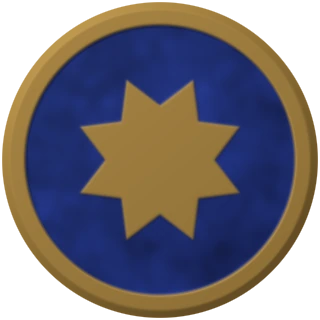
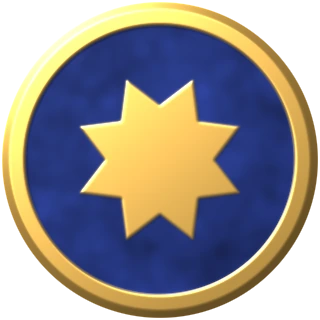
アルケルケ: ベルベルを廃止しヒストリカル(彫刻木盤)・モダン(ダマスク)・チョーク(石板)を追加、駒の明るさのバランス調整
Claude-Session: https://claude.ai/code/session_01EiWRAYzNyyFMGgYmiTnvUY

diff --git a/alquerque/index.html b/alquerque/index.html
@@ -1210,27 +1210,46 @@ body.hb-on .hb .controls.hb-menu{display:flex!important}
   html:is([data-rule=dimy],[data-rule=telo],[data-rule=alq]) body.rvb-on .side-in > #coachCard{display:none!important}
   html:is([data-rule=dimy],[data-rule=telo],[data-rule=alq]) body .app > .rvbox{grid-area:bx;height:auto;max-height:40vh}
 }
+/* ---- Alquerque: historical (carved wood), modern (damask cloth), chalk (slate) — tools/gen_rugs.py */
+html[data-bd=carved]{--wimg:url(img/rug-carved.webp?v=1);--edge:#3a2414;--wdl:#2b190c}
+html[data-bd=damask]{--wimg:url(img/rug-damask.webp?v=1);--edge:#26323f;--wdl:#eef2f6}
+html[data-bd=chalk]{--wimg:url(img/rug-chalk.webp?v=1);--edge:#1c1d1e;--wdl:#ecebe6}
+html:is([data-bd=carved],[data-bd=damask],[data-bd=chalk]) .frame{background:var(--wimg) 0 0 / 100% 100%;border-radius:calc(var(--cell) * .1);
+  box-shadow:0 calc(var(--cell) * .05) 0 var(--edge),0 40px 70px -26px rgba(0,0,0,.85)}
+html:is([data-bd=carved],[data-bd=damask],[data-bd=chalk]) .lines{filter:none}
+html[data-bd=carved] .lines .ln{stroke:#2b190c;stroke-width:.035;opacity:.9}
+html[data-bd=carved] .lines .pt{fill:#2b190c;opacity:.85;r:.06} html[data-bd=carved] .lines .pt.st{r:.08}
+html[data-bd=carved] .lines .num{fill:#2b190c;opacity:.75}
+html[data-bd=carved] .reserve{background:rgba(40,22,10,.35);box-shadow:inset 0 2px 5px rgba(0,0,0,.5),inset 0 -1px 0 rgba(255,230,190,.15)}
+html[data-bd=damask] .lines .ln{stroke:#eef2f6;stroke-width:.03;opacity:.92}
+html[data-bd=damask] .lines .pt{fill:#eef2f6;opacity:.95;r:.06} html[data-bd=damask] .lines .pt.st{r:.08}
+html[data-bd=damask] .lines .num{fill:#eef2f6;opacity:.7}
+html[data-bd=damask] .reserve{background:rgba(10,16,24,.35);box-shadow:inset 0 2px 5px rgba(0,0,0,.5)}
+html[data-bd=chalk] .lines{filter:url(#chalkF)}
+html[data-bd=chalk] .lines .ln{stroke:#ecebe6;stroke-width:.05;opacity:.88;stroke-linecap:round}
+html[data-bd=chalk] .lines .pt{fill:#ecebe6;opacity:.85;r:.07} html[data-bd=chalk] .lines .pt.st{r:.09}
+html[data-bd=chalk] .lines .num{fill:#ecebe6;opacity:.7}
+html[data-bd=chalk] .reserve{background:rgba(0,0,0,.3);box-shadow:inset 0 2px 5px rgba(0,0,0,.6)}
 /* ---- Alquerque: rug boards (tools/gen_rugs.py) with cream / gold lines; brass + lapis coins and felt balls */
-html:is([data-bd=medallion],[data-bd=berber],[data-bd=kilim],[data-bd=patch]){--edge:#2a1414;--wdl:#f6e6c0}
-html[data-bd=berber] .lines .num{fill:#2a1414;opacity:.75}
-html[data-bd=medallion]{--wimg:url(img/rug-medallion.webp?v=7)} html[data-bd=berber]{--wimg:url(img/rug-berber.webp?v=6)}
+html:is([data-bd=medallion],[data-bd=kilim],[data-bd=patch]){--edge:#2a1414;--wdl:#f6e6c0}
+html[data-bd=medallion]{--wimg:url(img/rug-medallion.webp?v=7)}
 html[data-bd=kilim]{--wimg:url(img/rug-kilim.webp?v=6)} html[data-bd=patch]{--wimg:url(img/rug-patch.webp?v=6)}
-html:is([data-bd=medallion],[data-bd=berber],[data-bd=kilim],[data-bd=patch]) .frame{background:var(--wimg) 0 0 / 100% 100%;border-radius:calc(var(--cell) * .14);
+html:is([data-bd=medallion],[data-bd=kilim],[data-bd=patch]) .frame{background:var(--wimg) 0 0 / 100% 100%;border-radius:calc(var(--cell) * .14);
   box-shadow:0 calc(var(--cell) * .05) 0 #3a1c18,0 40px 70px -26px rgba(0,0,0,.85),inset 0 0 calc(var(--cell) * .3) rgba(0,0,0,.25)}
-html:is([data-bd=medallion],[data-bd=berber],[data-bd=kilim],[data-bd=patch]) .lines{filter:drop-shadow(0 0 calc(var(--cell) * .025) rgba(0,0,0,.65))}
-html:is([data-bd=medallion],[data-bd=berber],[data-bd=kilim],[data-bd=patch]) .lines .ln{stroke:#f6e6c0;stroke-width:.045;opacity:.95}
-html:is([data-bd=medallion],[data-bd=berber],[data-bd=kilim],[data-bd=patch]) .lines .pt{fill:#e9c46a;opacity:1;r:.1}
-html:is([data-bd=medallion],[data-bd=berber],[data-bd=kilim],[data-bd=patch]) .lines .pt.st{r:.13}
-html:is([data-bd=medallion],[data-bd=berber],[data-bd=kilim],[data-bd=patch]) .lines .num{fill:#f6e6c0;opacity:.9}
-html:is([data-bd=medallion],[data-bd=berber],[data-bd=kilim],[data-bd=patch]) .reserve{background:rgba(20,6,6,.45);box-shadow:inset 0 2px 5px rgba(0,0,0,.6),inset 0 -1px 0 rgba(255,255,255,.12)}
+html:is([data-bd=medallion],[data-bd=kilim],[data-bd=patch]) .lines{filter:drop-shadow(0 0 calc(var(--cell) * .025) rgba(0,0,0,.65))}
+html:is([data-bd=medallion],[data-bd=kilim],[data-bd=patch]) .lines .ln{stroke:#f6e6c0;stroke-width:.045;opacity:.95}
+html:is([data-bd=medallion],[data-bd=kilim],[data-bd=patch]) .lines .pt{fill:#e9c46a;opacity:1;r:.1}
+html:is([data-bd=medallion],[data-bd=kilim],[data-bd=patch]) .lines .pt.st{r:.13}
+html:is([data-bd=medallion],[data-bd=kilim],[data-bd=patch]) .lines .num{fill:#f6e6c0;opacity:.9}
+html:is([data-bd=medallion],[data-bd=kilim],[data-bd=patch]) .reserve{background:rgba(20,6,6,.45);box-shadow:inset 0 2px 5px rgba(0,0,0,.6),inset 0 -1px 0 rgba(255,255,255,.12)}
 html[data-pcs=brass]{--w1:#fff0b8;--w2:#d9ad4a;--w4:#8a6420;--b1:#4a6cc4;--b2:#1d3478;--b4:#0b1636}
 html[data-pcs=felt]{--w1:#f6eedc;--w2:#e6dcc4;--w4:#a89a80;--b1:#3a5cae;--b2:#1e3a84;--b4:#0e1c48}
 html:is([data-pcs=brass],[data-pcs=felt]) :is(.pc,.rv)::before, html:is([data-pcs=brass],[data-pcs=felt]) :is(.pc,.rv)::after{display:none}
 /* rendered faces (tools/gen_pieces.py): brass coin / lapis in a gold bezel; glazed ceramic (ivory painted cobalt / cobalt painted white) */
-html[data-pcs=brass] :is(.pc,.rv).p1{background:url(img/pc-brass-1.webp?v=4) 50% 50% / 100% 100% no-repeat}
-html[data-pcs=brass] :is(.pc,.rv).p2{background:url(img/pc-brass-2.webp?v=4) 50% 50% / 100% 100% no-repeat}
-html[data-pcs=felt] :is(.pc,.rv).p1{background:url(img/pc-felt-1.webp?v=4) 50% 50% / 100% 100% no-repeat}
-html[data-pcs=felt] :is(.pc,.rv).p2{background:url(img/pc-felt-2.webp?v=4) 50% 50% / 100% 100% no-repeat}
+html[data-pcs=brass] :is(.pc,.rv).p1{background:url(img/pc-brass-1.webp?v=5) 50% 50% / 100% 100% no-repeat}
+html[data-pcs=brass] :is(.pc,.rv).p2{background:url(img/pc-brass-2.webp?v=5) 50% 50% / 100% 100% no-repeat}
+html[data-pcs=felt] :is(.pc,.rv).p1{background:url(img/pc-felt-1.webp?v=5) 50% 50% / 100% 100% no-repeat}
+html[data-pcs=felt] :is(.pc,.rv).p2{background:url(img/pc-felt-2.webp?v=5) 50% 50% / 100% 100% no-repeat}
 html[data-pcs=brass] .pc.p1{box-shadow:0 calc(var(--cell) * .035) 0 #6a4614,0 calc(var(--cell) * .05) 0 #3e280a,0 calc(var(--cell) * .1) calc(var(--cell) * .1) rgba(0,0,0,.55)}
 html[data-pcs=brass] .pc.p2{box-shadow:0 calc(var(--cell) * .035) 0 #8a6420,0 calc(var(--cell) * .05) 0 #4a3010,0 calc(var(--cell) * .1) calc(var(--cell) * .1) rgba(0,0,0,.55)}
 html[data-pcs=felt] .pc.p1{box-shadow:0 calc(var(--cell) * .04) 0 #a0846a,0 calc(var(--cell) * .055) 0 #6a4a34,0 calc(var(--cell) * .1) calc(var(--cell) * .1) rgba(0,0,0,.5)}
@@ -1298,6 +1317,7 @@ html[data-pcs=felt] .pdisc.p1{background:#e6dcc4} html[data-pcs=felt] .pdisc.p2{
 </style>
 </head>
 <body>
+<svg width="0" height="0" style="position:absolute" aria-hidden="true"><filter id="chalkF" x="-5%" y="-5%" width="110%" height="110%"><feTurbulence type="fractalNoise" baseFrequency="1.6" numOctaves="2" seed="3"/><feColorMatrix values="0 0 0 0 0  0 0 0 0 0  0 0 0 0 0  0 0 0 -1.6 1.25"/><feComposite in="SourceGraphic" operator="in"/></filter></svg>
 <div class="app">
   <div class="board-area">
     <div class="frame" id="frame">
@@ -1577,9 +1597,9 @@ html[data-pcs=felt] .pdisc.p1{background:#e6dcc4} html[data-pcs=felt] .pdisc.p2{
 // Alquerque runs on the Fanorona scripts (fanorona/app.js, engine.js, online*.js) with this game's settings
 window.GAME = { id: 'alquerque', name: 'Alquerque', base: 'alq', rules: ['alq'], store: 'aicoding-alquerque', img: '../images/atlas/alquerque.webp',
   engine: '../fanorona/engine.js?v=fb2', bd: 'medallion', pcs: 'brass',
-  bds: ['medallion', 'berber', 'kilim', 'patch', 'abstract', 'dark'], pcss: ['brass', 'felt', 'flat', 'mono'],
-  bdImg: { medallion: 'img/rug-medallion.webp?v=7', berber: 'img/rug-berber.webp?v=6', kilim: 'img/rug-kilim.webp?v=6', patch: 'img/rug-patch.webp?v=6' },
-  bdPal: { medallion: ['#962020', '#5a1c40', '#e2b254'], berber: ['#ee7616', '#b01e6e', '#1a1416'], kilim: ['#cc282e', '#ec6e22', '#f4e8d2'], patch: ['#7a3a5a', '#2a608c', '#f4ead6'] },
+  bds: ['medallion', 'kilim', 'patch', 'carved', 'damask', 'chalk', 'abstract', 'dark'], pcss: ['brass', 'felt', 'flat', 'mono'],
+  bdImg: { carved: 'img/rug-carved.webp?v=1', damask: 'img/rug-damask.webp?v=1', chalk: 'img/rug-chalk.webp?v=1', medallion: 'img/rug-medallion.webp?v=7', kilim: 'img/rug-kilim.webp?v=6', patch: 'img/rug-patch.webp?v=6' },
+  bdPal: { carved: ['#96704a', '#5e4026', '#2b190c'], damask: ['#3a4c60', '#26323f', '#eef2f6'], chalk: ['#2e3032', '#1c1d1e', '#ecebe6'], medallion: ['#962020', '#5a1c40', '#e2b254'], kilim: ['#cc282e', '#ec6e22', '#f4e8d2'], patch: ['#7a3a5a', '#2a608c', '#f4ead6'] },
   pcPal: { brass: [['#fff0b8', '#d9ad4a', '#8a6420'], ['#3d5fb8', '#1d3478', '#0b1636']], felt: [['#f6eedc', '#e6dcc4', '#a89a80'], ['#3a5cae', '#1e3a84', '#0e1c48']] } };
 window.OL_VARIANTS = ['alq']; window.OL_DB_PREFIX = 'alq/';
 </script>
@@ -1617,7 +1637,7 @@ window.OL_VARIANTS = ['alq']; window.OL_DB_PREFIX = 'alq/';
     };
     fit(); addEventListener('resize', fit);
     try { history.replaceState(null, '', location.pathname); } catch (e) {}   // (the iframe took the room / record links along)
-  } else document.write('<script src="../fanorona/i18n.js?v=fb3"><\/script><script src="i18n-alq.js?v=1x"><\/script><script src="../fanorona/i18n-online.js?v=stale1"><\/script><script src="../shared/pzbook.js?v=4"><\/script><script src="../shared/placement.js?v=1"><\/script><script src="../shared/rulesoffer.js?v=9"><\/script><script src="../shared/headerbar.js?v=29"><\/script><script src="../shared/flipbtn.js?v=1"><\/script><script src="../shared/cardbar.js?v=5"><\/script><script src="../shared/watchpause.js?v=2"><\/script><script src="../shared/tick.js?v=1"><\/script><script src="../shared/ruletour.js?v=28"><\/script><script src="../fanorona/engine.js?v=fb2"><\/script><script src="firebase-config.js?v=1"><\/script><script src="../shared/onlinesec.js?v=2"><\/script><script src="../fanorona/online.js?v=fb2"><\/script><script src="../shared/resign.js?v=1"><\/script><script src="../fanorona/rvbox.js?v=fb2"><\/script><script src="../shared/coachkit.js?v=14"><\/script><script src="../shared/record.js?v=8"><\/script><script src="../shared/export.js?v=6"><\/script><script src="../fanorona/app.js?v=fb5"><\/script><script src="../fanorona/online-ui.js?v=fb2"><\/script><script src="../fanorona/landtabs.js?v=fb2"><\/script><script src="../shared/pickdrop.js?v=6"><\/script><script src="../shared/ngtabs.js?v=15"><\/script><script src="../shared/resumeng.js?v=1"><\/script>');
+  } else document.write('<script src="../fanorona/i18n.js?v=fb3"><\/script><script src="i18n-alq.js?v=2"><\/script><script src="../fanorona/i18n-online.js?v=stale1"><\/script><script src="../shared/pzbook.js?v=4"><\/script><script src="../shared/placement.js?v=1"><\/script><script src="../shared/rulesoffer.js?v=9"><\/script><script src="../shared/headerbar.js?v=29"><\/script><script src="../shared/flipbtn.js?v=1"><\/script><script src="../shared/cardbar.js?v=5"><\/script><script src="../shared/watchpause.js?v=2"><\/script><script src="../shared/tick.js?v=1"><\/script><script src="../shared/ruletour.js?v=28"><\/script><script src="../fanorona/engine.js?v=fb2"><\/script><script src="firebase-config.js?v=1"><\/script><script src="../shared/onlinesec.js?v=2"><\/script><script src="../fanorona/online.js?v=fb2"><\/script><script src="../shared/resign.js?v=1"><\/script><script src="../fanorona/rvbox.js?v=fb2"><\/script><script src="../shared/coachkit.js?v=14"><\/script><script src="../shared/record.js?v=8"><\/script><script src="../shared/export.js?v=6"><\/script><script src="../fanorona/app.js?v=fb5"><\/script><script src="../fanorona/online-ui.js?v=fb2"><\/script><script src="../fanorona/landtabs.js?v=fb2"><\/script><script src="../shared/pickdrop.js?v=6"><\/script><script src="../shared/ngtabs.js?v=15"><\/script><script src="../shared/resumeng.js?v=1"><\/script>');
 })();
 </script>
 <!-- World Board Game Atlas: shared account sync -->

diff --git a/alquerque/i18n-alq.js b/alquerque/i18n-alq.js
@@ -14,7 +14,7 @@ ja: {
   'tr.achain.t': '続けて取る', 'tr.achain.b': '跳んだ先でさらに取れるなら、<b>同じ手番で続けて跳ばなければなりません</b>。', 'tr.achain.task': 'a1の駒で2枚続けて取りましょう。', 'tr.achain.ok': '連続取り！ 一気に2枚です。', 'tr.achain.ng': '取ったあと、続けて次の駒も取りましょう。',
   'tr.awin.t': '勝ち方', 'tr.awin.b': '相手の駒を<b>すべて取る</b>と勝ち。\n相手が動けなくなっても勝ちです。', 'tr.awin.task': '最後の相手の駒を取って勝ちましょう。', 'tr.awin.ok': '勝ちました！', 'tr.awin.ng': '相手の駒を取りましょう。',
   'tr.adraw.t': '引き分け', 'tr.adraw.b': '<b>同じ局面が3回</b>現れるか、取りのない手が<b>80手続く</b>と引き分けです。\n奥まで進んだ駒は横にしか動けません。',
-  'bd.medallion': 'メダリオン絨毯', 'bd.berber': 'ベルベル絨毯', 'bd.kilim': 'キリム', 'bd.patch': 'パッチワーク', 'pcs.brass': '真鍮と瑠璃', 'pcs.felt': '施釉陶器',
+  'bd.carved': 'ヒストリカル（彫刻木盤）', 'bd.damask': 'モダン（ダマスク布）', 'bd.chalk': 'チョーク（石板）', 'bd.medallion': 'メダリオン絨毯', 'bd.berber': 'ベルベル絨毯', 'bd.kilim': 'キリム', 'bd.patch': 'パッチワーク', 'pcs.brass': '真鍮と瑠璃', 'pcs.felt': '施釉陶器',
   'btn.lesson.title': 'レッスン（準備中）',
 },
 en: {
@@ -31,14 +31,14 @@ en: {
   'tr.achain.t': 'Jumping on', 'tr.achain.b': 'If the piece can capture again where it lands, it <b>must go on jumping</b> in the same turn.', 'tr.achain.task': 'Capture two pieces in a row with a1.', 'tr.achain.ok': 'A double capture!', 'tr.achain.ng': 'After the first capture, go on and take the next one.',
   'tr.awin.t': 'How to win', 'tr.awin.b': '<b>Capture all</b> the opponent\'s pieces to win.\nLeaving them unable to move also wins.', 'tr.awin.task': 'Capture the opponent\'s last piece.', 'tr.awin.ok': 'You won!', 'tr.awin.ng': 'Capture the opponent\'s piece.',
   'tr.adraw.t': 'Draws', 'tr.adraw.b': 'The game is drawn when <b>the same position appears 3 times</b> or <b>80 moves in a row</b> capture nothing.\nA piece on the far row can only move sideways.',
-  'bd.medallion': 'Medallion carpet', 'bd.berber': 'Berber rug', 'bd.kilim': 'Kilim', 'bd.patch': 'Patchwork', 'pcs.brass': 'Brass and lapis', 'pcs.felt': 'Glazed ceramic',
+  'bd.carved': 'Historical (carved wood)', 'bd.damask': 'Modern (damask cloth)', 'bd.chalk': 'Chalk (slate)', 'bd.medallion': 'Medallion carpet', 'bd.berber': 'Berber rug', 'bd.kilim': 'Kilim', 'bd.patch': 'Patchwork', 'pcs.brass': 'Brass and lapis', 'pcs.felt': 'Glazed ceramic',
 },
-zh: { 'meta.title': '阿尔凯尔凯 — 世界桌游大全', 'title': '阿尔凯尔凯', 'rule.alq': '阿尔凯尔凯（5×5）', 'intro.t': '阿尔凯尔凯是什么游戏？', 'intro.origin': '阿拉伯世界 → 西班牙', 'bd.medallion': '圆章地毯', 'bd.berber': '柏柏尔地毯', 'bd.kilim': '基里姆', 'bd.patch': '拼布', 'pcs.brass': '黄铜与青金石', 'pcs.felt': '釉面陶瓷' },
-ko: { 'meta.title': '알케르케 — 세계 보드게임 대전', 'title': '알케르케', 'rule.alq': '알케르케 (5×5)', 'intro.t': '알케르케는 어떤 게임?', 'intro.origin': '아랍 세계 → 스페인', 'bd.medallion': '메달리온 카펫', 'bd.berber': '베르베르 러그', 'bd.kilim': '킬림', 'bd.patch': '패치워크', 'pcs.brass': '황동과 청금석', 'pcs.felt': '유약 도자기' },
-es: { 'meta.title': 'Alquerque — Atlas de juegos de mesa', 'title': 'Alquerque', 'rule.alq': 'Alquerque (5×5)', 'intro.t': '¿Qué es el alquerque?', 'intro.origin': 'Mundo árabe → España', 'bd.medallion': 'Alfombra de medallón', 'bd.berber': 'Alfombra bereber', 'bd.kilim': 'Kilim', 'bd.patch': 'Patchwork', 'pcs.brass': 'Latón y lapislázuli', 'pcs.felt': 'Cerámica vidriada' },
-fr: { 'meta.title': 'Alquerque — Atlas des jeux de société', 'title': 'Alquerque', 'rule.alq': 'Alquerque (5×5)', 'intro.t': 'Qu’est-ce que l’alquerque ?', 'intro.origin': 'Monde arabe → Espagne', 'bd.medallion': 'Tapis à médaillon', 'bd.berber': 'Tapis berbère', 'bd.kilim': 'Kilim', 'bd.patch': 'Patchwork', 'pcs.brass': 'Laiton et lapis', 'pcs.felt': 'Céramique émaillée' },
-pt: { 'meta.title': 'Alquerque — Atlas de jogos de tabuleiro', 'title': 'Alquerque', 'rule.alq': 'Alquerque (5×5)', 'intro.t': 'O que é o alquerque?', 'intro.origin': 'Mundo árabe → Espanha', 'bd.medallion': 'Tapete de medalhão', 'bd.berber': 'Tapete berbere', 'bd.kilim': 'Kilim', 'bd.patch': 'Patchwork', 'pcs.brass': 'Latão e lápis-lazúli', 'pcs.felt': 'Cerâmica vidrada' },
-de: { 'meta.title': 'Alquerque — Brettspiel-Atlas', 'title': 'Alquerque', 'rule.alq': 'Alquerque (5×5)', 'intro.t': 'Was ist Alquerque?', 'intro.origin': 'Arabische Welt → Spanien', 'bd.medallion': 'Medaillonteppich', 'bd.berber': 'Berberteppich', 'bd.kilim': 'Kelim', 'bd.patch': 'Patchwork', 'pcs.brass': 'Messing und Lapis', 'pcs.felt': 'Glasierte Keramik' },
-hi: { 'meta.title': 'अलकेरके — विश्व बोर्ड गेम एटलस', 'title': 'अलकेरके', 'rule.alq': 'अलकेरके (5×5)', 'intro.t': 'अलकेरके क्या है?', 'intro.origin': 'अरब दुनिया → स्पेन', 'bd.medallion': 'मेडलियन कालीन', 'bd.berber': 'बर्बर गलीचा', 'bd.kilim': 'किलिम', 'bd.patch': 'पैचवर्क', 'pcs.brass': 'पीतल और लाजवर्द', 'pcs.felt': 'चमकीली सिरेमिक' },
-ar: { 'meta.title': 'القِرْقة — أطلس ألعاب الطاولة', 'title': 'القِرْقة (ألكيركي)', 'rule.alq': 'القِرْقة (5×5)', 'intro.t': 'ما هي القِرْقة؟', 'intro.origin': 'العالم العربي ← إسبانيا', 'bd.medallion': 'سجادة الميدالية', 'bd.berber': 'بساط أمازيغي', 'bd.kilim': 'كليم', 'bd.patch': 'رقع ملوّنة', 'pcs.brass': 'نحاس ولازورد', 'pcs.felt': 'خزف مزجج' },
+zh: { 'meta.title': '阿尔凯尔凯 — 世界桌游大全', 'title': '阿尔凯尔凯', 'rule.alq': '阿尔凯尔凯（5×5）', 'intro.t': '阿尔凯尔凯是什么游戏？', 'intro.origin': '阿拉伯世界 → 西班牙', 'bd.carved': '历史（雕刻木盘）', 'bd.damask': '现代（锦缎布）', 'bd.chalk': '粉笔（石板）', 'bd.medallion': '圆章地毯', 'bd.berber': '柏柏尔地毯', 'bd.kilim': '基里姆', 'bd.patch': '拼布', 'pcs.brass': '黄铜与青金石', 'pcs.felt': '釉面陶瓷' },
+ko: { 'meta.title': '알케르케 — 세계 보드게임 대전', 'title': '알케르케', 'rule.alq': '알케르케 (5×5)', 'intro.t': '알케르케는 어떤 게임?', 'intro.origin': '아랍 세계 → 스페인', 'bd.carved': '히스토리컬 (조각 목판)', 'bd.damask': '모던 (다마스크 천)', 'bd.chalk': '분필 (석판)', 'bd.medallion': '메달리온 카펫', 'bd.berber': '베르베르 러그', 'bd.kilim': '킬림', 'bd.patch': '패치워크', 'pcs.brass': '황동과 청금석', 'pcs.felt': '유약 도자기' },
+es: { 'meta.title': 'Alquerque — Atlas de juegos de mesa', 'title': 'Alquerque', 'rule.alq': 'Alquerque (5×5)', 'intro.t': '¿Qué es el alquerque?', 'intro.origin': 'Mundo árabe → España', 'bd.carved': 'Histórico (madera tallada)', 'bd.damask': 'Moderno (tela damasco)', 'bd.chalk': 'Tiza (pizarra)', 'bd.medallion': 'Alfombra de medallón', 'bd.berber': 'Alfombra bereber', 'bd.kilim': 'Kilim', 'bd.patch': 'Patchwork', 'pcs.brass': 'Latón y lapislázuli', 'pcs.felt': 'Cerámica vidriada' },
+fr: { 'meta.title': 'Alquerque — Atlas des jeux de société', 'title': 'Alquerque', 'rule.alq': 'Alquerque (5×5)', 'intro.t': 'Qu’est-ce que l’alquerque ?', 'intro.origin': 'Monde arabe → Espagne', 'bd.carved': 'Historique (bois sculpté)', 'bd.damask': 'Moderne (tissu damassé)', 'bd.chalk': 'Craie (ardoise)', 'bd.medallion': 'Tapis à médaillon', 'bd.berber': 'Tapis berbère', 'bd.kilim': 'Kilim', 'bd.patch': 'Patchwork', 'pcs.brass': 'Laiton et lapis', 'pcs.felt': 'Céramique émaillée' },
+pt: { 'meta.title': 'Alquerque — Atlas de jogos de tabuleiro', 'title': 'Alquerque', 'rule.alq': 'Alquerque (5×5)', 'intro.t': 'O que é o alquerque?', 'intro.origin': 'Mundo árabe → Espanha', 'bd.carved': 'Histórico (madeira entalhada)', 'bd.damask': 'Moderno (tecido adamascado)', 'bd.chalk': 'Giz (lousa)', 'bd.medallion': 'Tapete de medalhão', 'bd.berber': 'Tapete berbere', 'bd.kilim': 'Kilim', 'bd.patch': 'Patchwork', 'pcs.brass': 'Latão e lápis-lazúli', 'pcs.felt': 'Cerâmica vidrada' },
+de: { 'meta.title': 'Alquerque — Brettspiel-Atlas', 'title': 'Alquerque', 'rule.alq': 'Alquerque (5×5)', 'intro.t': 'Was ist Alquerque?', 'intro.origin': 'Arabische Welt → Spanien', 'bd.carved': 'Historisch (geschnitztes Holz)', 'bd.damask': 'Modern (Damaststoff)', 'bd.chalk': 'Kreide (Schiefer)', 'bd.medallion': 'Medaillonteppich', 'bd.berber': 'Berberteppich', 'bd.kilim': 'Kelim', 'bd.patch': 'Patchwork', 'pcs.brass': 'Messing und Lapis', 'pcs.felt': 'Glasierte Keramik' },
+hi: { 'meta.title': 'अलकेरके — विश्व बोर्ड गेम एटलस', 'title': 'अलकेरके', 'rule.alq': 'अलकेरके (5×5)', 'intro.t': 'अलकेरके क्या है?', 'intro.origin': 'अरब दुनिया → स्पेन', 'bd.carved': 'ऐतिहासिक (नक्काशीदार लकड़ी)', 'bd.damask': 'आधुनिक (दमिश्क कपड़ा)', 'bd.chalk': 'चॉक (स्लेट)', 'bd.medallion': 'मेडलियन कालीन', 'bd.berber': 'बर्बर गलीचा', 'bd.kilim': 'किलिम', 'bd.patch': 'पैचवर्क', 'pcs.brass': 'पीतल और लाजवर्द', 'pcs.felt': 'चमकीली सिरेमिक' },
+ar: { 'meta.title': 'القِرْقة — أطلس ألعاب الطاولة', 'title': 'القِرْقة (ألكيركي)', 'rule.alq': 'القِرْقة (5×5)', 'intro.t': 'ما هي القِرْقة؟', 'intro.origin': 'العالم العربي ← إسبانيا', 'bd.carved': 'تاريخي (خشب منحوت)', 'bd.damask': 'حديث (قماش دمشقي)', 'bd.chalk': 'طباشير (لوح أردواز)', 'bd.medallion': 'سجادة الميدالية', 'bd.berber': 'بساط أمازيغي', 'bd.kilim': 'كليم', 'bd.patch': 'رقع ملوّنة', 'pcs.brass': 'نحاس ولازورد', 'pcs.felt': 'خزف مزجج' },
 });

diff --git a/alquerque/tools/gen_rugs.py b/alquerque/tools/gen_rugs.py
@@ -303,6 +303,127 @@ def patch(seed=4):
     return Image.alpha_composite(out, th).convert('RGB')
 
 
+
+# ------------------------------------------------------------------------------------------------ historical / modern / chalk
+def wood_tex(rng, base, dark, ring=.12, scale=1.0):
+    yy, xx = np.mgrid[0:H, 0:W].astype(np.float64)
+    warp = gaussian_filter(rng.standard_normal((H, W)), (80, 30)); warp /= warp.std()
+    g = np.sin((xx / (4.5 * scale) + warp * 1.1 + gaussian_filter(rng.standard_normal((H, W)), (90, 3)) * .9))
+    fib = gaussian_filter(rng.standard_normal((H, W)), (14, .7)); fib /= fib.std()
+    t = np.clip(.5 + .5 * g * ring * 4 + fib * .08, 0, 1)
+    base, dark = np.array(base, float), np.array(dark, float)
+    return base * (1 - t[..., None]) + dark * t[..., None]
+
+
+def engrave(a, m, depth=.55, light=(255, 230, 190)):
+    """burnt / carved line from a mask: dark groove with a thin highlight on the lower-right lip."""
+    m = gaussian_filter(m, .7)
+    sh = np.roll(np.roll(m, 2, 0), 2, 1)
+    a = a * (1 - depth * m[..., None])
+    a = a + (np.clip(sh - m, 0, 1) * .25)[..., None] * (np.array(light) - a)
+    return a
+
+
+def lmask(draw):
+    im = Image.new('L', (W * SS, H * SS), 0); draw(ImageDraw.Draw(im))
+    return np.asarray(im.resize((W, H), Image.LANCZOS)).astype(np.float64) / 255
+
+
+def scroll_band(d, x0, y0, x1, y1, horiz, w):
+    """a running scroll (S-curves with curled ends) along a border band, as carved on old game boards."""
+    L = (x1 - x0) if horiz else (y1 - y0); n = max(2, int(L / (w * 1.6))); step = L / n
+    for k in range(n):
+        for side in (1, -1):
+            pts = []
+            for t in np.linspace(0, 1, 40):
+                u = k * step + t * step; v = side * w * .22 * math.sin(t * math.pi) * (1 if k % 2 else -1)
+                pts.append((x0 + u, (y0 + y1) / 2 + v) if horiz else ((x0 + x1) / 2 + v, y0 + u))
+            d.line(sc(pts), fill=255, width=int(w * .12) * SS)
+        cx, cy = ((x0 + k * step + step / 2, (y0 + y1) / 2) if horiz else ((x0 + x1) / 2, y0 + k * step + step / 2))
+        for sgn in (1, -1):   # curls
+            ox = (sgn * step * .22, 0) if horiz else (0, sgn * step * .22)
+            pts = [(cx + ox[0] + w * .26 * (1 - t * .7) * math.cos(t * 5 + (0 if sgn > 0 else math.pi)), cy + ox[1] + w * .26 * (1 - t * .7) * math.sin(t * 5 + (0 if sgn > 0 else math.pi))) for t in np.linspace(0, 1, 24)]
+            d.line(sc(pts), fill=255, width=int(w * .1) * SS)
+
+
+def carved(seed=5):
+    rng = np.random.default_rng(seed)
+    a = wood_tex(rng, (150, 112, 74), (96, 64, 38))
+    bw = S * .62; m0, m1 = S * .16, S * .16 + bw
+    def frame_lines(d):
+        for m in (m0, m0 + 8, m1, m1 - 8): d.rectangle([m * SS, m * SS, (W - m) * SS, (H - m) * SS], outline=255, width=3 * SS)
+        for (cx, cy) in ((m0 + bw / 2, m0 + bw / 2), (W - m0 - bw / 2, m0 + bw / 2), (m0 + bw / 2, H - m0 - bw / 2), (W - m0 - bw / 2, H - m0 - bw / 2)):
+            d.rectangle([(cx - bw / 2) * SS, (cy - bw / 2) * SS, (cx + bw / 2) * SS, (cy + bw / 2) * SS], fill=0, outline=255, width=3 * SS)
+            d.ellipse([(cx - bw * .38) * SS, (cy - bw * .38) * SS, (cx + bw * .38) * SS, (cy + bw * .38) * SS], outline=255, width=3 * SS)
+            for k in range(8):
+                q = k * math.pi / 4
+                d.line(sc([(cx, cy), (cx + bw * .3 * math.cos(q), cy + bw * .3 * math.sin(q))]), fill=255, width=3 * SS)
+            d.ellipse([(cx - bw * .12) * SS, (cy - bw * .12) * SS, (cx + bw * .12) * SS, (cy + bw * .12) * SS], outline=255, width=3 * SS)
+        scroll_band(d, m1, m0 + 8, W - m1, m1 - 8, True, bw - 16); scroll_band(d, m1, H - m1 + 8, W - m1, H - m0 - 8, True, bw - 16)
+        scroll_band(d, m0 + 8, m1, m1 - 8, H - m1, False, bw - 16); scroll_band(d, W - m1 + 8, m1, W - m0 - 8, H - m1, False, bw - 16)
+        cx, cy = P(2, 2); r = S * .18
+        d.ellipse([(cx - r) * SS, (cy - r) * SS, (cx + r) * SS, (cy + r) * SS], outline=255, width=3 * SS)
+    a = engrave(a, lmask(frame_lines), .6)
+    # a darker stain toward the edges, oil sheen
+    yy, xx = np.mgrid[0:H, 0:W].astype(np.float64)
+    a *= (1 - .22 * (((xx - W / 2) / (W / 2)) ** 4 + ((yy - H / 2) / (H / 2)) ** 4))[..., None]
+    return Image.fromarray(np.clip(a, 0, 255).astype(np.uint8))
+
+
+def damask(seed=6):
+    rng = np.random.default_rng(seed)
+    base = np.array((58, 76, 96), float); hi = np.array((94, 112, 134), float)
+    def motif(d):
+        tw, th = S * 1.9, S * 2.3
+        for j in range(-1, int(H / th) + 2):
+            for i in range(-1, int(W / tw) + 2):
+                cx = i * tw + (tw / 2 if j % 2 else 0); cy = j * th
+                for sgn in (1, -1):   # mirrored acanthus scrolls
+                    for (r0, a0, turns, w) in ((S * .5, -1.2, 1.5, 6), (S * .32, .6, 1.2, 5), (S * .22, 2.2, 1.0, 4)):
+                        pts = [(cx + sgn * (r0 * (1 - t * .75) * math.cos(a0 + t * turns * 2 * math.pi)) + sgn * S * .2, cy + r0 * (1 - t * .75) * math.sin(a0 + t * turns * 2 * math.pi)) for t in np.linspace(0, 1, 60)]
+                        d.line(sc(pts), fill=255, width=int(w * SS))
+                        ex, ey = pts[0]
+                        d.polygon(sc([(ex, ey), (ex + sgn * 18, ey - 30), (ex + sgn * 6, ey - 50), (ex - sgn * 8, ey - 26)]), fill=255)
+                d.polygon(sc([(cx, cy - S * .55), (cx + S * .12, cy - S * .25), (cx, cy), (cx - S * .12, cy - S * .25)]), fill=255)
+                d.ellipse([(cx - 10) * SS, (cy + S * .12 - 10) * SS, (cx + 10) * SS, (cy + S * .12 + 10) * SS], fill=255)
+    m = gaussian_filter(lmask(motif), 1.2) * .55
+    a = base * (1 - m[..., None]) + hi * m[..., None]
+    fab = gaussian_filter(rng.standard_normal((H, W)), .6); fab /= fab.std()
+    yy, xx = np.mgrid[0:H, 0:W].astype(np.float64)
+    a *= (1 + .025 * fab + .02 * np.sin(xx * 2.1) * np.sin(yy * 2.1))[..., None]
+    # pinked (zig-zag) edge
+    out = np.clip(a, 0, 255).astype(np.uint8); img = Image.fromarray(out)
+    return img
+
+
+def chalk(seed=7):
+    rng = np.random.default_rng(seed)
+    yy, xx = np.mgrid[0:H, 0:W].astype(np.float64)
+    a = np.zeros((H, W, 3)); a[:] = (40, 42, 44)
+    sm = gaussian_filter(rng.standard_normal((H, W)), 40); sm /= sm.std()
+    a *= (1 + .06 * sm)[..., None]
+    a += (np.clip(gaussian_filter(rng.standard_normal((H, W)), (6, 60)), 0, None) * 18)[..., None]   # old wiped chalk
+    grain = gaussian_filter(rng.standard_normal((H, W)), .6); a *= (1 + .07 * grain / grain.std())[..., None]
+    # chalk drawing: the triangles at the head and foot of the board, as scratched on old slates
+    def tri(d):
+        for top in (True, False):
+            cx = P(2, 0)[0]; yb = P(2, 4)[1] if top else P(2, 0)[1]; ye = yb - S * 1.15 if top else yb + S * 1.15
+            hw = S * 1.0
+            pts = [(cx, yb), (cx - hw, ye), (cx + hw, ye), (cx, yb)]
+            q = []
+            for (p0, p1) in zip(pts, pts[1:]):
+                for t in np.linspace(0, 1, 18): q.append((p0[0] + (p1[0] - p0[0]) * t + rng.normal(0, 1.2), p0[1] + (p1[1] - p0[1]) * t + rng.normal(0, 1.2)))
+            d.line(sc(q), fill=255, width=7 * SS)
+            d.line(sc([(cx, yb), (cx, ye)]), fill=255, width=7 * SS)
+            ym = (yb + ye) / 2
+            d.line(sc([(cx - hw / 2, ym), (cx + hw / 2, ym)]), fill=255, width=7 * SS)
+    m = lmask(tri)
+    dust = np.clip(gaussian_filter(rng.random((H, W)), .5) * 1.6 - .3, 0, 1)
+    m = gaussian_filter(m, .8) * (.55 + .45 * dust)
+    a = a * (1 - m[..., None] * .85) + np.array((232, 230, 222)) * (m[..., None] * .85)
+    return Image.fromarray(np.clip(a, 0, 255).astype(np.uint8))
+
+
 os.makedirs(OUT, exist_ok=True)
 def dim(img, k=.8, sat=.85):
     a = np.asarray(img).astype(np.float64); g = a.mean(axis=2, keepdims=True)
@@ -311,7 +432,9 @@ def dim(img, k=.8, sat=.85):
     return Image.fromarray(np.clip(a, 0, 255).astype(np.uint8))
 
 
-DIM = {'medallion': (.86, .9), 'berber': (.9, .86), 'kilim': (.9, .86), 'patch': (.92, .86)}
-for name, fn in (('medallion', medallion), ('berber', berber), ('kilim', kilim), ('patch', patch)):
+DIM = {'medallion': (.86, .9), 'berber': (.9, .86), 'kilim': (.9, .86), 'patch': (.92, .86), 'carved': (1, 1), 'damask': (1, 1), 'chalk': (1, 1)}
+import sys
+ALL = {'medallion': medallion, 'kilim': kilim, 'patch': patch, 'carved': carved, 'damask': damask, 'chalk': chalk}
+for name, fn in ((n, ALL[n]) for n in (sys.argv[1:] or ALL)):
     dim(fn(), *DIM[name]).save(os.path.join(OUT, f'rug-{name}.webp'), quality=86, method=6)
     print(name)

diff --git a/alquerque/tools/gen_pieces.py b/alquerque/tools/gen_pieces.py
@@ -82,7 +82,7 @@ def brass():
     st_in = mask(lambda d, s: d.polygon([(s(x), s(y)) for x, y in star_pts(c, N * .2, N * .12, 8, math.pi / 8)], fill=255), 1.0)
     boss = mask(lambda d, s: d.ellipse([s(c - N * .055), s(c - N * .055), s(c + N * .055), s(c + N * .055)], fill=255), 1.0)
     h = rim_profile() + st * 5 + boss * 2 + noise(1.0, .04) + noise(20, .3)
-    albedo = np.zeros((N, N, 3)); albedo[:] = (204, 152, 74)
+    albedo = np.zeros((N, N, 3)); albedo[:] = (188, 140, 68)
     fld = (1 - st) * (rr < .76)
     albedo = albedo * (1 - fld[..., None] * .35) + np.array([120, 84, 40]) * fld[..., None] * .35
     save(shade(gaussian_filter(h, 1.0), albedo, metal=.08, gloss=16, spec=.12, amb=.5), 'pc-brass-1.webp')
@@ -96,12 +96,12 @@ def lapis():
     bezel = np.clip((rr - .84) / .02, 0, 1)
     gold = np.clip(st - st_in * .0 + bezel, 0, 1)
     cloud = noise(16, 1) * .7 + noise(5, 1) * .3
-    base = np.array([30, 48, 128]) * (1 + .12 * cloud[..., None])
+    base = np.array([40, 60, 146]) * (1 + .12 * cloud[..., None])
     fleck = gaussian_filter((gaussian_filter(rng.standard_normal((N, N)), .6) > 3.0).astype(float), .5)
     stone = base * (1 - fleck[..., None]) + np.array([220, 186, 110]) * fleck[..., None]
     h = (1 - rr ** 2) * 10 + st * 1.4 + bezel * 2.5 - np.clip((rr - .95) / .05, 0, 1) * 6
     ag = np.zeros((N, N, 3)); ag[:] = (220, 172, 82)
-    gs = shade(gaussian_filter(h, .9), ag * .82, metal=0, gloss=8, spec=.06, amb=.55)
+    gs = shade(gaussian_filter(h, .9), ag * .95, metal=.08, gloss=16, spec=.12, amb=.5)
     ss = shade(gaussian_filter(h, .9), stone, metal=0, gloss=8, spec=.05, amb=.55)
     gm = gold[..., None]
     save(ss * (1 - gm) + gs * gm, 'pc-brass-2.webp')
